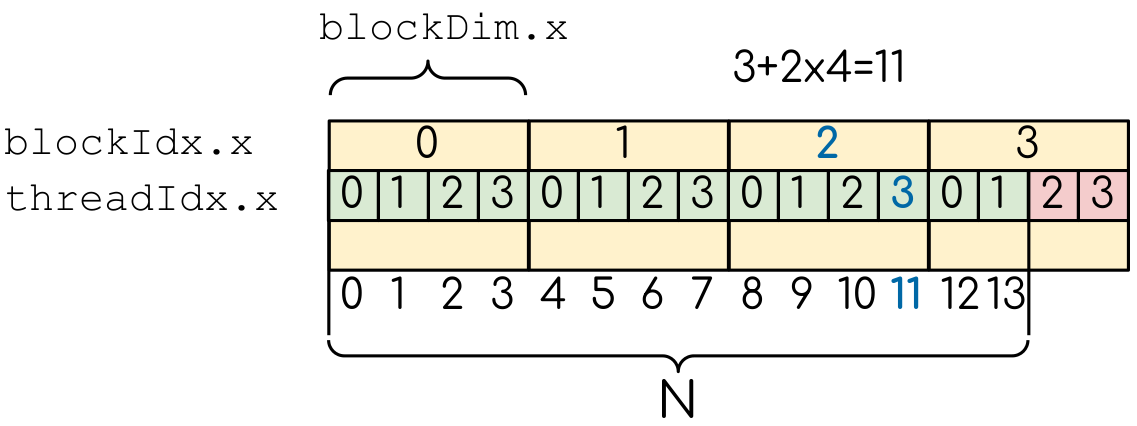
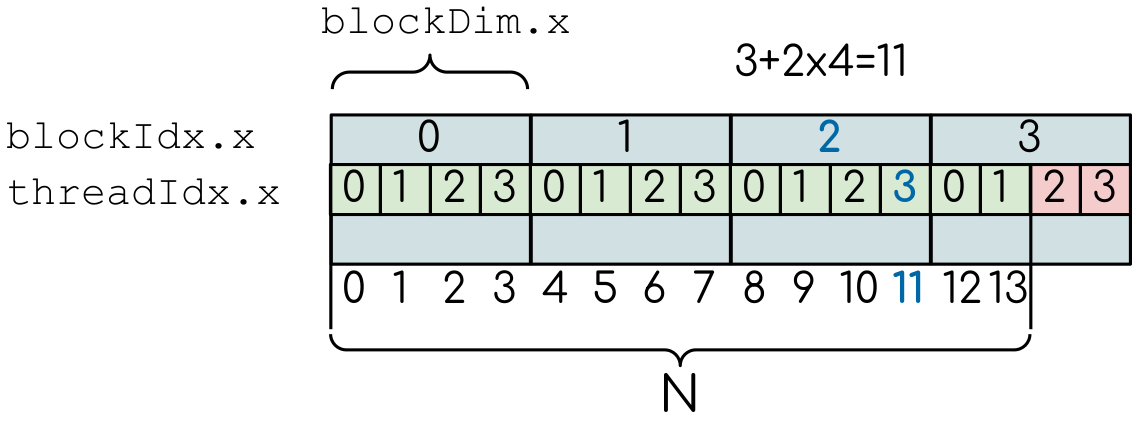
Add image that shows 2d0>1d array mapping

diff --git a/content/2.02_cuda-heat-equation.rst b/content/2.02_cuda-heat-equation.rst
@@ -73,7 +73,7 @@ Porting the code
 Even though the problem is two-dimensional, we are still going to use one-dimensional arrays in CUDA.
 This allows for an explicit control of the memory access pattern.
 We want neighboring threads to access the neighboring elements of an array, so that the limited amounts of cache will be used efficiently.
-For that, we add a helper function that computes the one-dimensional index from two indices:
+For that, we will use a helper function that computes the one-dimensional index from two indices:
 
 .. code-block:: c++
 
@@ -84,8 +84,15 @@ For that, we add a helper function that computes the one-dimensional index from 
 
 Here, ``width`` is a width of a two-dimensional array, ``i`` and ``j`` are the two-dimensional indices.
 
+.. figure:: img/2Dto1DArrayMapping.png
+    :align: center
+    :scale: 50 %
+
+    Mapping of the two-dimensional array into one-dimensional.
+    The numbers represent the number of the element in 1D array.
+
 Since we are going to use non-trivial data access pattern in the following examples, it is good idea to constantly check for errors.
-Not to overload the code with extra checks, we are going to use the following function from the CUDA API:
+Not to overload the code with extra checks after every API call, we are going to use the following function from the CUDA API:
 
 .. signature:: |cudaGetLastError|
 
@@ -95,7 +102,7 @@ Not to overload the code with extra checks, we are going to use the following fu
 
 This function will check if there were any CUDA API errors in the previous calls and should return |cudaSuccess| if there were none.
 We will check this, and print an error message if this was not the case.
-In order to render a human-friendly string that describes an error, the following CUDA function will be used:
+In order to render a human-friendly string that describes an error, the |cudaGetErrorString| function from the CUDA API will be used:
 
 .. signature:: |cudaGetErrorString|
 
@@ -108,7 +115,7 @@ This will return a string, that we are going to print in case there were errors.
 We will also need to use the ``getIndex(..)`` function from the device code.
 To do so, we will need to ask a compiler to compile it for the device execution.
 This is done by adding a |__device__| specifier to its definition, will make the function available in the device code but not available in the host code.
-Since we are also using it when populating the initial conditions, we also need a |__host__| specifier.
+Since we are also using it when populating the initial conditions, we need a |__host__| specifier for this function as well.
 
 .. typealong:: Initial CUDA port 
 
@@ -128,7 +135,7 @@ Since we are also using it when populating the initial conditions, we also need 
 
     2. Prepare kernel configuration parameters.
        Since we have a double loop over coordinates, it is convinient to map it to two-dimensional block of threads.
-       Note that the total number of threads per block will be multiple of the number of threads in each dimensions, so it is easy to assign too many threads to a single block.
+       Note that the total number of threads per block will be multiple of the number of threads in each dimensions, so it is easy to assign too many threads to a single block: this number is limited by 1024 for all NVidia GPUs.
        Decide the size of the block and compute the required number of blocks and create corresponding ``dim3`` variables.
        It is convinient to use ``#define`` to specify the block sizes in each direction, since we are going to need them in the GPU code.
 
@@ -166,10 +173,10 @@ Since we are also using it when populating the initial conditions, we also need 
 Moving data ownership to the device
 -----------------------------------
 
-There is a lot of room for improvements in the previous implementation.
-The most obvous part is the host-device and device-to host data transfers.
+There is a lot of possibilities to improve the performance of in the current implementation.
+One of them is to reduce the number of the host-device and device-to host data transfers.
 Even though the transfers are relatively fast, they are much slower than accessing the memory in the kernel call.
-So eliminating the transfers is one of the most basic and most effitient improvements.
+Eliminating the transfers is one of the most basic and most effitient improvements.
 
 Note that in more complicated cases, eliminating the data transfers between host and device can be challenging.
 For instance, in cases where not all the computational procedures are ported to the GPU.
@@ -180,7 +187,7 @@ One should also consider using CPU efficiently: if everything is computed on a d
 This is a waste of resources.
 In some cases one can copy some data to the host memory, do the computations and copy data back while the device is still computing.
 
-Remove unnessesary host to device and device to host data transfers, can also be looked at as the change in the data ownerhip.
+Removing unnessesary host to device and device to host data transfers, can also be looked at as the change in the data ownerhip.
 Now the device holds the data, do all computational procedures and, occasionally, the data is copied back to the CPU for e.g. output.
 This is exactly the case in our code: there is nothing to compute between two consequative time steps, so there is no need to copy data to the host on each step.
 The data only needed on the host for the output.

diff --git a/content/2.01_cuda-introduction.rst b/content/2.01_cuda-introduction.rst
@@ -255,7 +255,7 @@ They are, respectively, index of thread in a block, index of the block and the s
     :align: center
     :scale: 50 %
 
-    A simple example of the division of threads (green squares) in blocks (yellow rectangles).
+    A simple example of the division of threads (green squares) in blocks (cyan rectangles).
     The equally-sized blocks contain four threads each.
     The thread index starts from zero in each block.
     Hence the "global" thread index should be computed from the thread index, block index and block size.
@@ -287,7 +287,7 @@ To have an access to the buffers, we need pass the device pointers to the kernel
 
 Now the kernel is defined, we can call it from the host code.
 Since the kernel will be executed in a grid of threads, so the kernel launch should be supplied with the configuration of the grid.
-In CUDA this is done by adding so-called `kernel cofiguration <https://docs.nvidia.com/cuda/cuda-c-programming-guide/index.html#programming-model>`_, ``<<<numBlocks, threadsPerBlock>>>``, to the function call:
+In CUDA this is done by adding `kernel cofiguration <https://docs.nvidia.com/cuda/cuda-c-programming-guide/index.html#programming-model>`_, ``<<<numBlocks, threadsPerBlock>>>``, to the function call:
 
 .. code-block:: cuda
 
@@ -297,8 +297,9 @@ Here, ``numBlocks`` is the total number of thread blocks in the grid, ``threadsP
 Note, that these values can be integers, or can be two-dimensional of three-dimensional vectors, if this is more suitable for the kernel.
 It is natural to use the one-dimensional layout for the vector addition problem, which is itself one-dimensional.
 In this case, the kernel configuration can be specified by two integer values.
-The threadsPerBlock can be arbitrary chosen, but should be larger that the number of CUDA cores in the SM.
-Good starting values are 256 or 512.
+The threadsPerBlock can be arbitrary chosen.
+It should be larger that the number of CUDA cores in the SM to fully occupy the device, but lower than the limit of 1024 (see `the technical specifications <https://docs.nvidia.com/cuda/cuda-c-programming-guide/index.html#compute-capabilities>`_).
+Values of 256 or 512 are frequently used.
 Since one has to make sure that the total number of threads (i.e. ``numBlocks*threadsPerBlock`` is greater or equal to the size of the vector.
 So ``numBlocks`` can be defined as ``numElements/threadsPerBlock + 1``, where ``numElements`` is a number of elements in the vector.
 
